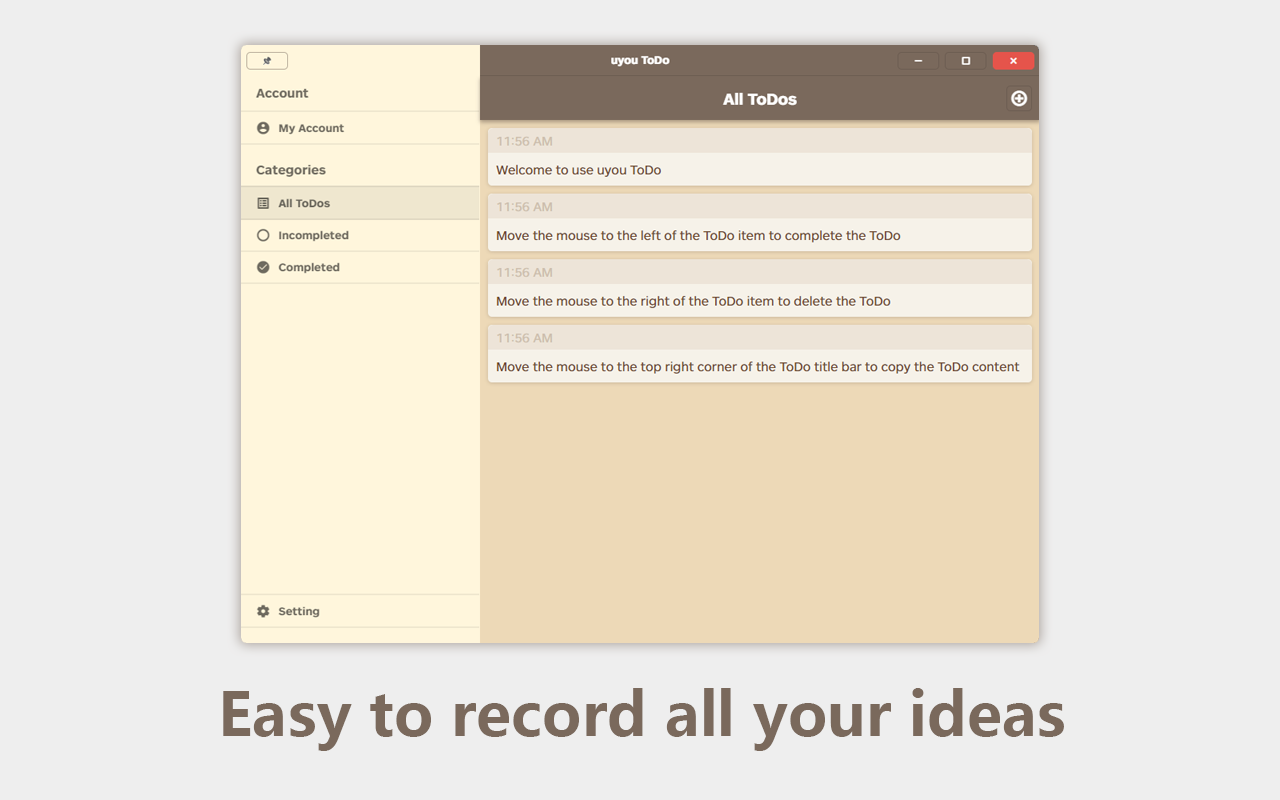
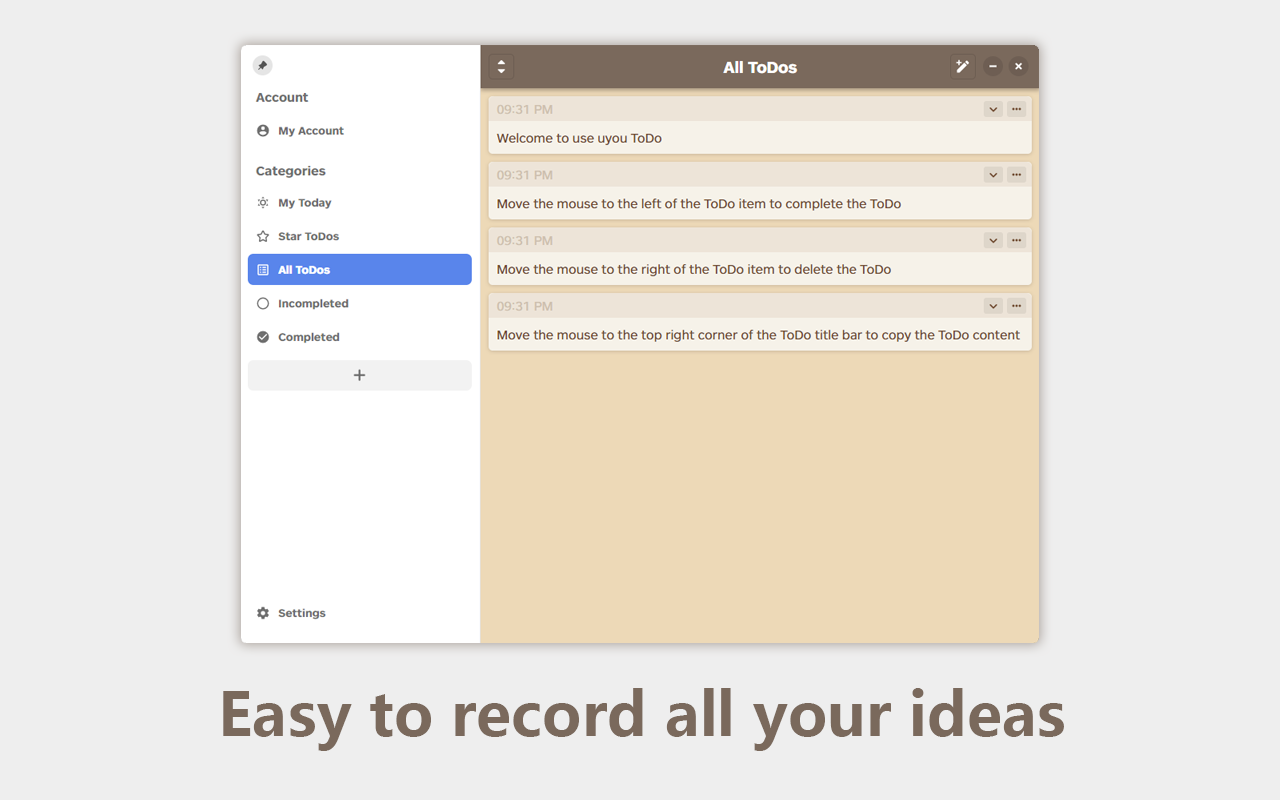
fix: color

Changed region(s): [[0.1875, 0.0312, 0.8125, 0.8125]]

diff --git a/electron/main.js b/electron/main.js
@@ -2,7 +2,7 @@ const path = require('node:path')
 const { app, BrowserWindow, ipcMain, screen, Menu, shell, globalShortcut } = require('electron')
 const Store = require('electron-store')
 const remoteMain = require('@electron/remote/main')
-const { MicaBrowserWindow, IS_WINDOWS_11 } = require('mica-electron')
+const { VALUE, MicaBrowserWindow, IS_WINDOWS_11 } = require('mica-electron')
 const menuTemplate = require('./menu.js')
 const { initWindowSize, windowSize, windowSizeState, windowSizeIpc } = require('./store/windowSizeStore')
 const { initSystemBar, systemBar, systemBarIpc } = require('./store/systemTitleBarStore')
@@ -63,12 +63,12 @@ function createWindow() {
       setMicaStyle(micaStyle || 'mica', mainWindow)
     }
     else {
-      mainWindow.setCustomEffect(4, '#eee', 0.4)
+      mainWindow.setCustomEffect(4, VALUE.COLOR.WHITE, 0.4)
     }
   }
   else {
-    mainWindow.setCaptionColor('#eee')
-    mainWindow.setCustomEffect(4, '#eee', 0.4)
+    mainWindow.setLightTheme()
+    mainWindow.setBackgroundColor('#fff')
   }
 
   mainWindow.loadURL(

diff --git a/src/components/TitleBar/newTitleBar.tsx b/src/components/TitleBar/newTitleBar.tsx
@@ -32,7 +32,7 @@ export default defineComponent({
       <div
         drag w-300px h-40px
         flex items-center z-200
-        bg={isMac() ? '#fff6dc00' : listMenuColor.value ? 'transparent' : '#fff6dcaa'}
+        bg="transparent"
       >
         {isMac()
           ? null
